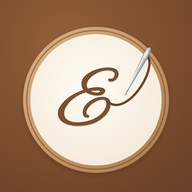
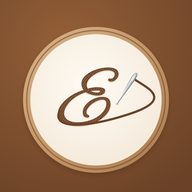
style: linha sai da voltinha do E e agulha menor dentro do bastidor
Claude-Session: https://claude.ai/code/session_01Vfb9uRLmoYKPsP2WywoggU

diff --git a/index.html b/index.html
@@ -7,10 +7,10 @@
 <title>Ela me Fez</title>
 <meta name="description" content="Necessaires, bordados, amigurumis e presentes feitos à mão. Escolha tamanho, cor e estampa e faça seu pedido pelo WhatsApp.">
 <meta name="theme-color" content="#F5EFE6">
-<link rel="icon" type="image/png" sizes="32x32" href="favicon.png?v=202611082003">
-<link rel="icon" type="image/png" sizes="192x192" href="icons/icon-192.png?v=202611082003">
-<link rel="apple-touch-icon" sizes="180x180" href="/apple-touch-icon.png?v=202611082003">
-<link rel="manifest" href="manifest.webmanifest?v=202611082003">
+<link rel="icon" type="image/png" sizes="32x32" href="favicon.png?v=202611082005">
+<link rel="icon" type="image/png" sizes="192x192" href="icons/icon-192.png?v=202611082005">
+<link rel="apple-touch-icon" sizes="180x180" href="/apple-touch-icon.png?v=202611082005">
+<link rel="manifest" href="manifest.webmanifest?v=202611082005">
 <meta name="apple-mobile-web-app-capable" content="yes">
 <meta name="mobile-web-app-capable" content="yes">
 <meta name="apple-mobile-web-app-title" content="Ela me Fez">
